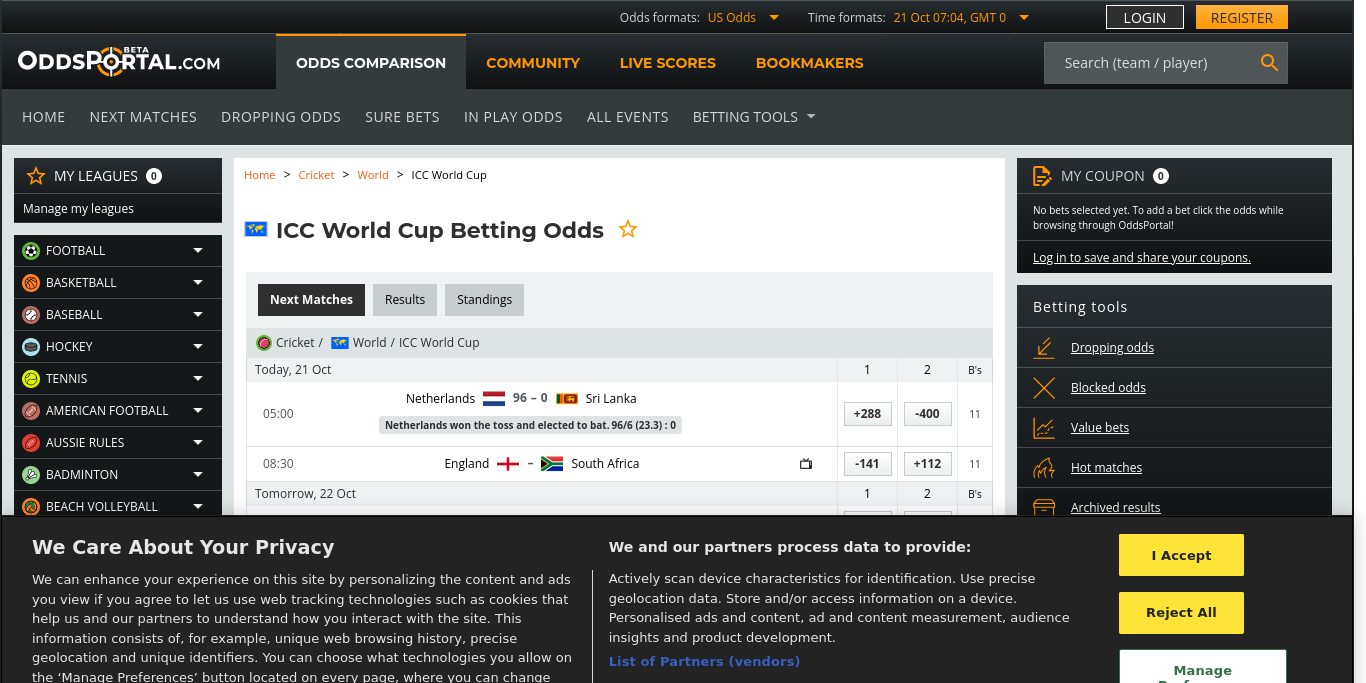
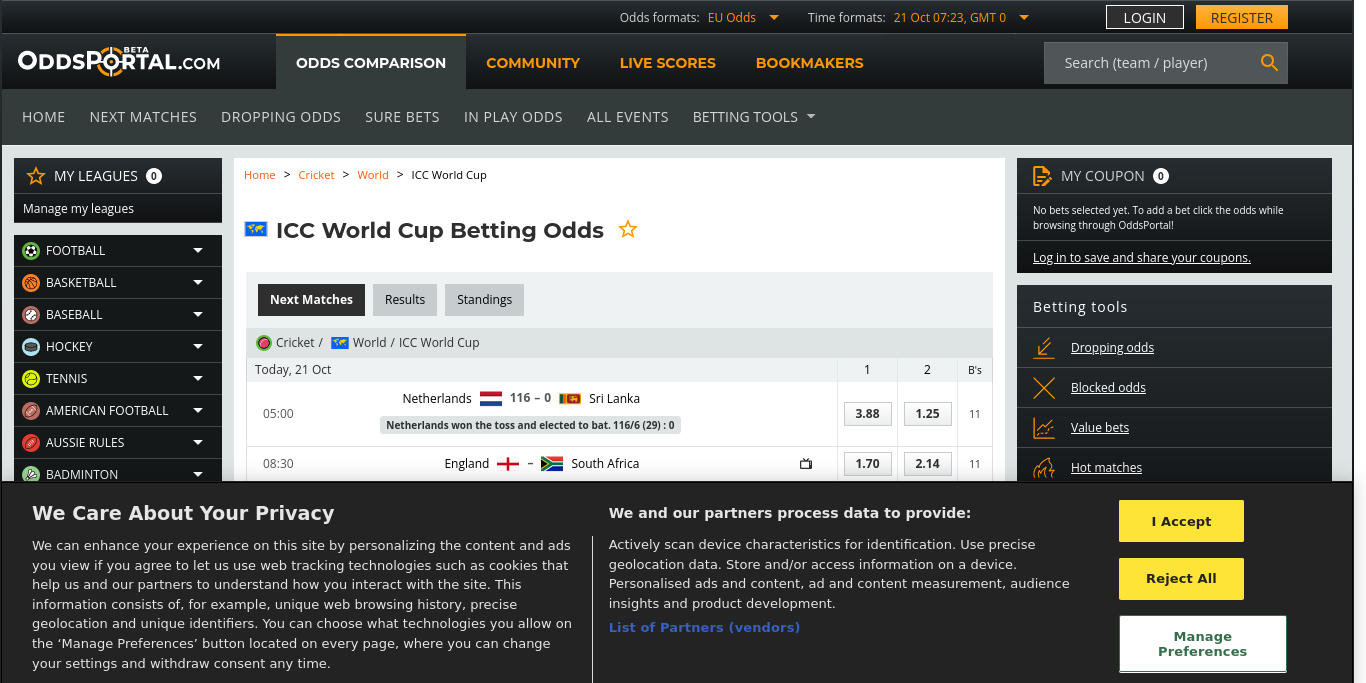
Update Data (Cron) Sat Oct 21 07:23:33 UTC 2023

diff --git a/src/nonview/data/TEAM1_ID_TO_TEAM2_ID_TO_ODDS_PAIR.js b/src/nonview/data/TEAM1_ID_TO_TEAM2_ID_TO_ODDS_PAIR.js
@@ -1,6 +1,6 @@
 // Auto Generated by UpdateTeam1IDToTeam2IDToOddsPair
 // https://www.oddsportal.com/cricket/world/icc-world-cup/
-// 2023-10-21 12:34:35 +0000
+// 2023-10-21 12:53:25 +0000
 
 import { TEAM } from "../core/Team.js";
 
@@ -9,18 +9,18 @@ export const TEAM1_ID_TO_TEAM2_ID_TO_ODDS_PAIR = {
     [TEAM.NLD.id]: [1.25, 3.88],
   },
   [TEAM.ENG.id]: {
-    [TEAM.ZAF.id]: [1.71, 2.12],
+    [TEAM.ZAF.id]: [1.70, 2.14],
     [TEAM.LKA.id]: [1.40, 2.97],
   },
   [TEAM.IND.id]: {
-    [TEAM.NZL.id]: [1.43, 2.79],
+    [TEAM.NZL.id]: [1.43, 2.80],
   },
   [TEAM.PAK.id]: {
     [TEAM.AFG.id]: [1.33, 3.37],
   },
   [TEAM.ZAF.id]: {
     [TEAM.BGD.id]: [1.31, 3.46],
-    [TEAM.PAK.id]: [1.79, 2.02],
+    [TEAM.PAK.id]: [1.79, 2.03],
   },
   [TEAM.AUS.id]: {
     [TEAM.NLD.id]: [1.06, 8.82],

diff --git a/src/nonview/constants/VERSION.js b/src/nonview/constants/VERSION.js
@@ -1,4 +1,4 @@
 // Auto-generated by javascript_version.py
-export const VERSION_UT = 1697871882;
+export const VERSION_UT = 1697873013;
 export const VERSION_DATETIME = new Date(VERSION_UT * 1_000);
 export const LAST_COMMIT_MESSAGE = "Updated 📊Data";

diff --git a/src/nonview/data/ODI_ID_TO_WINNER.js b/src/nonview/data/ODI_ID_TO_WINNER.js
@@ -1,6 +1,6 @@
 // Auto Generated by UpdateODIIDToWinner
 // https://www.cricbuzz.com/cricket-series/6732/icc-cricket-world-cup-2023/matches
-// 2023-10-21 12:34:16 +0000
+// 2023-10-21 12:53:07 +0000
 
 import { TEAM } from "../core/Team.js";
 

diff --git a/src/nonview/data/POINTS_TABLE.js b/src/nonview/data/POINTS_TABLE.js
@@ -1,6 +1,6 @@
 // Auto Generated by UpdatePointsTable
 // https://www.cricketworldcup.com/standings
-// 2023-10-21 12:34:26 +0000
+// 2023-10-21 12:53:16 +0000
 
 import { TEAM } from "../core/Team.js";
 
